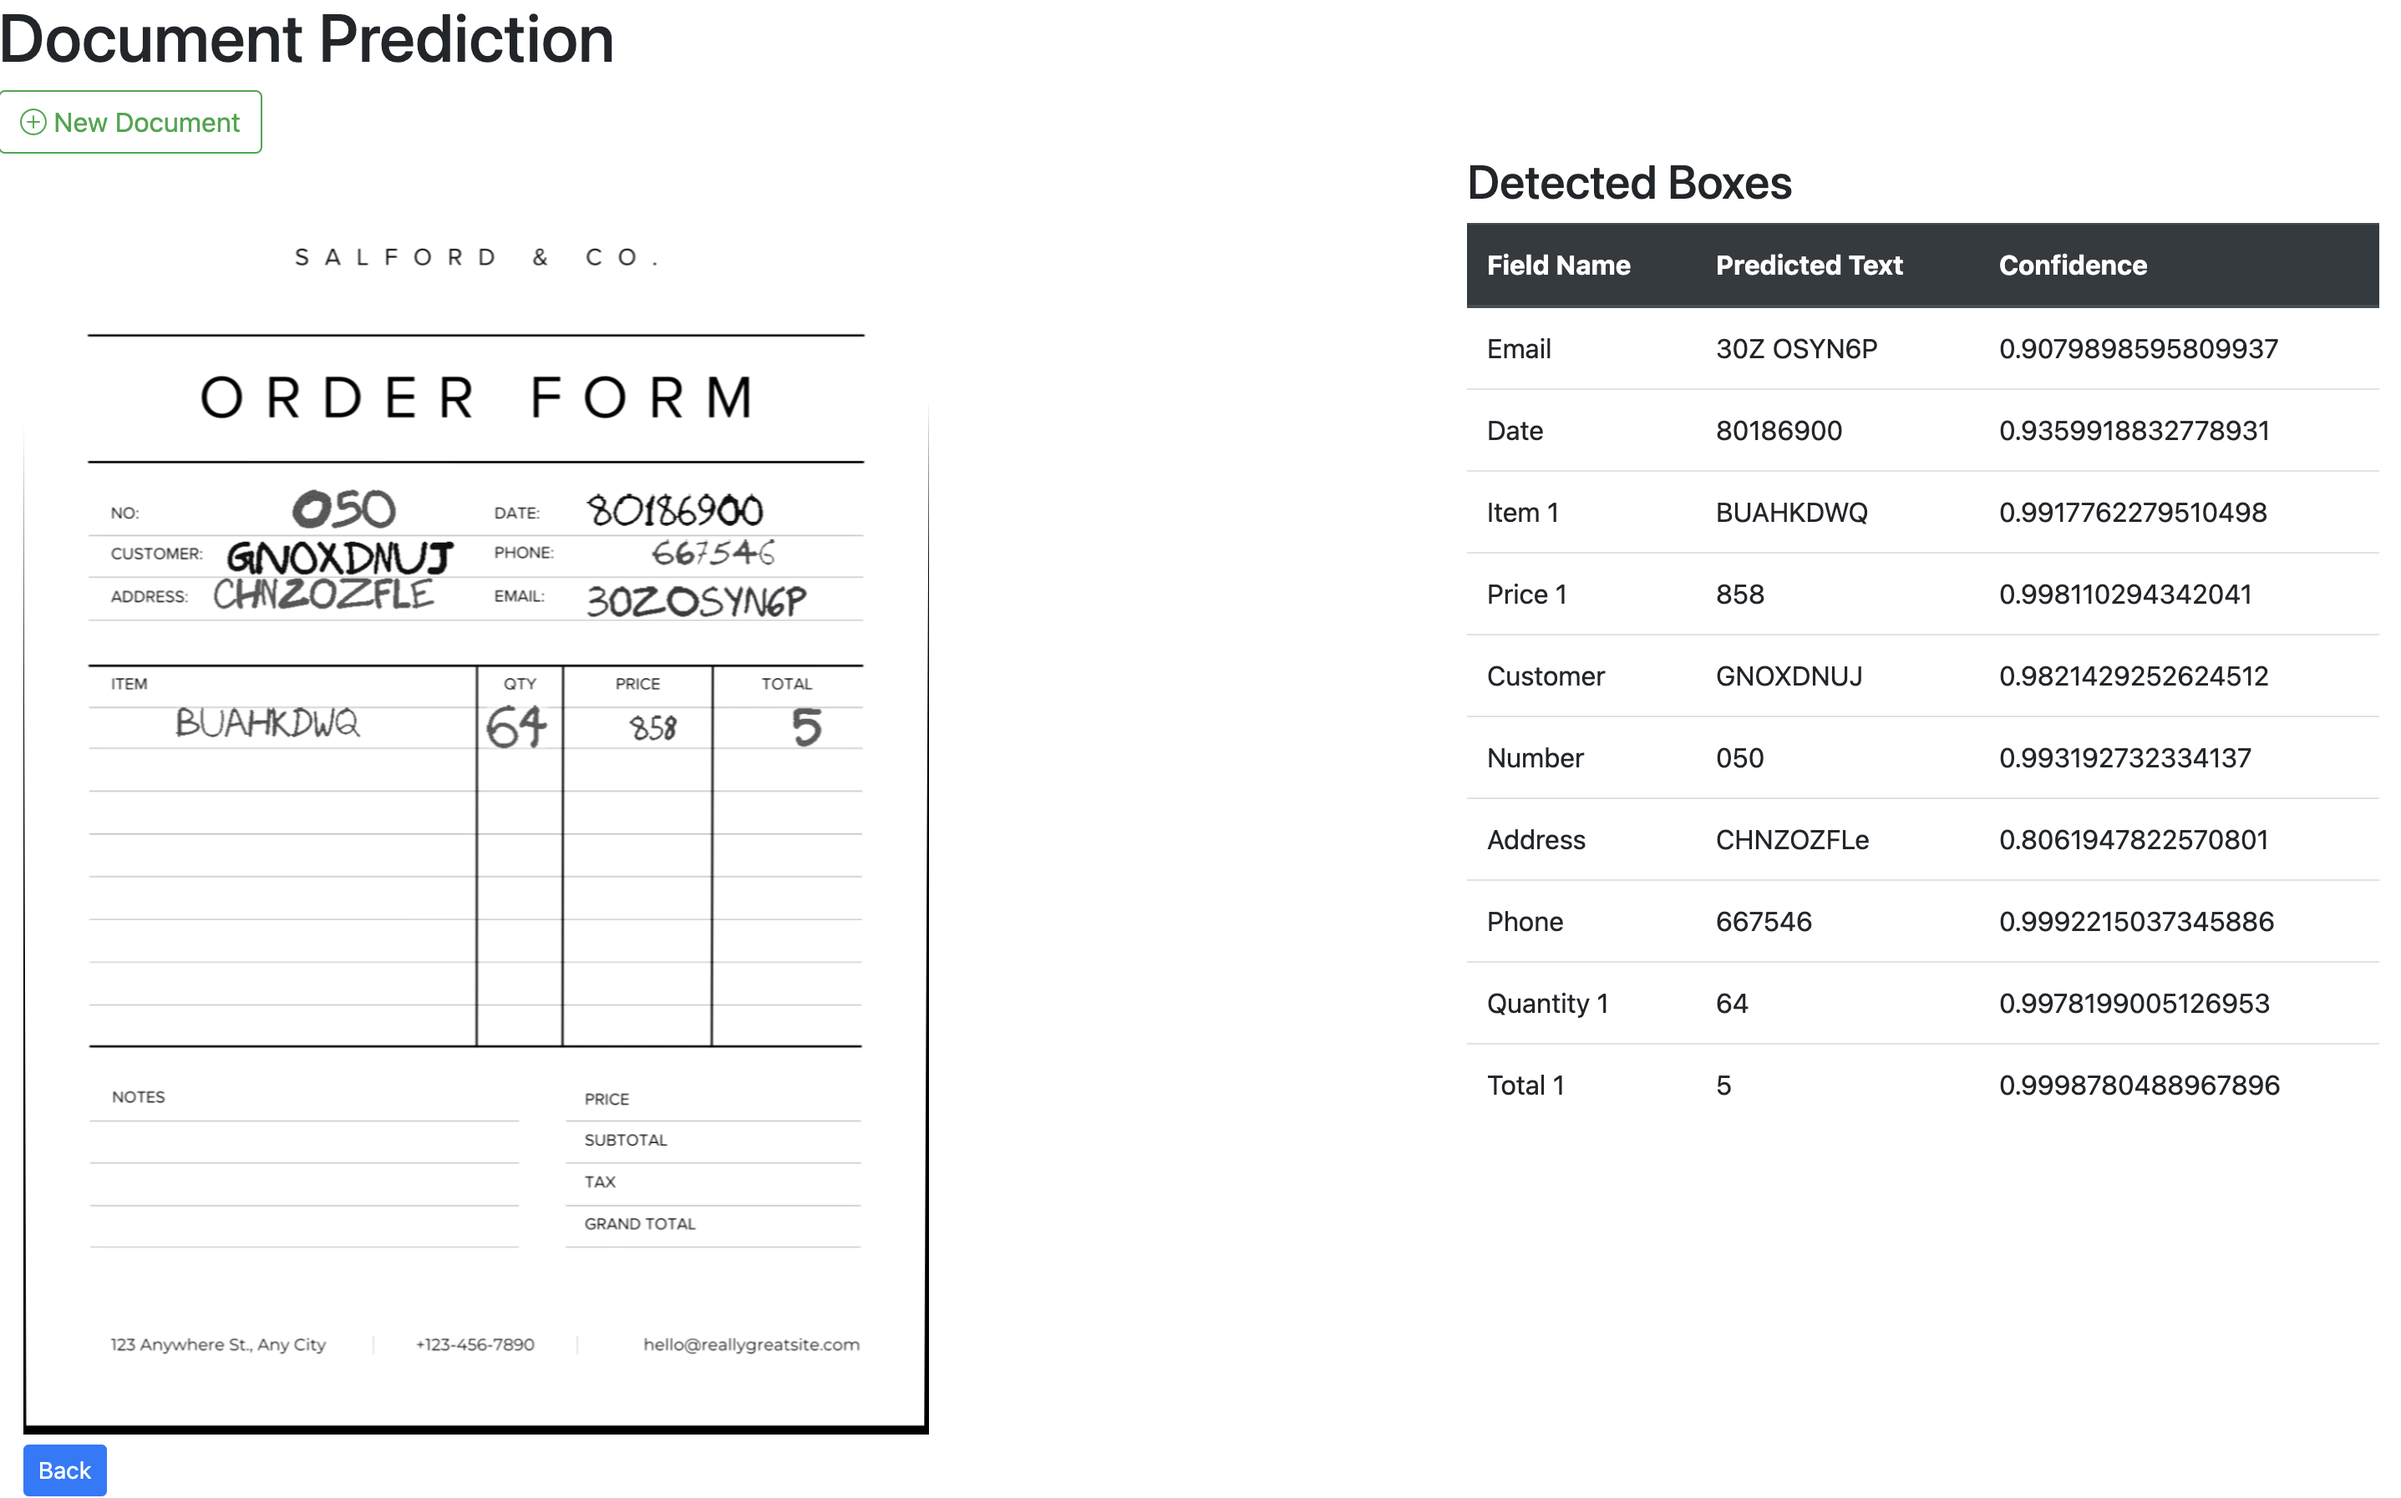
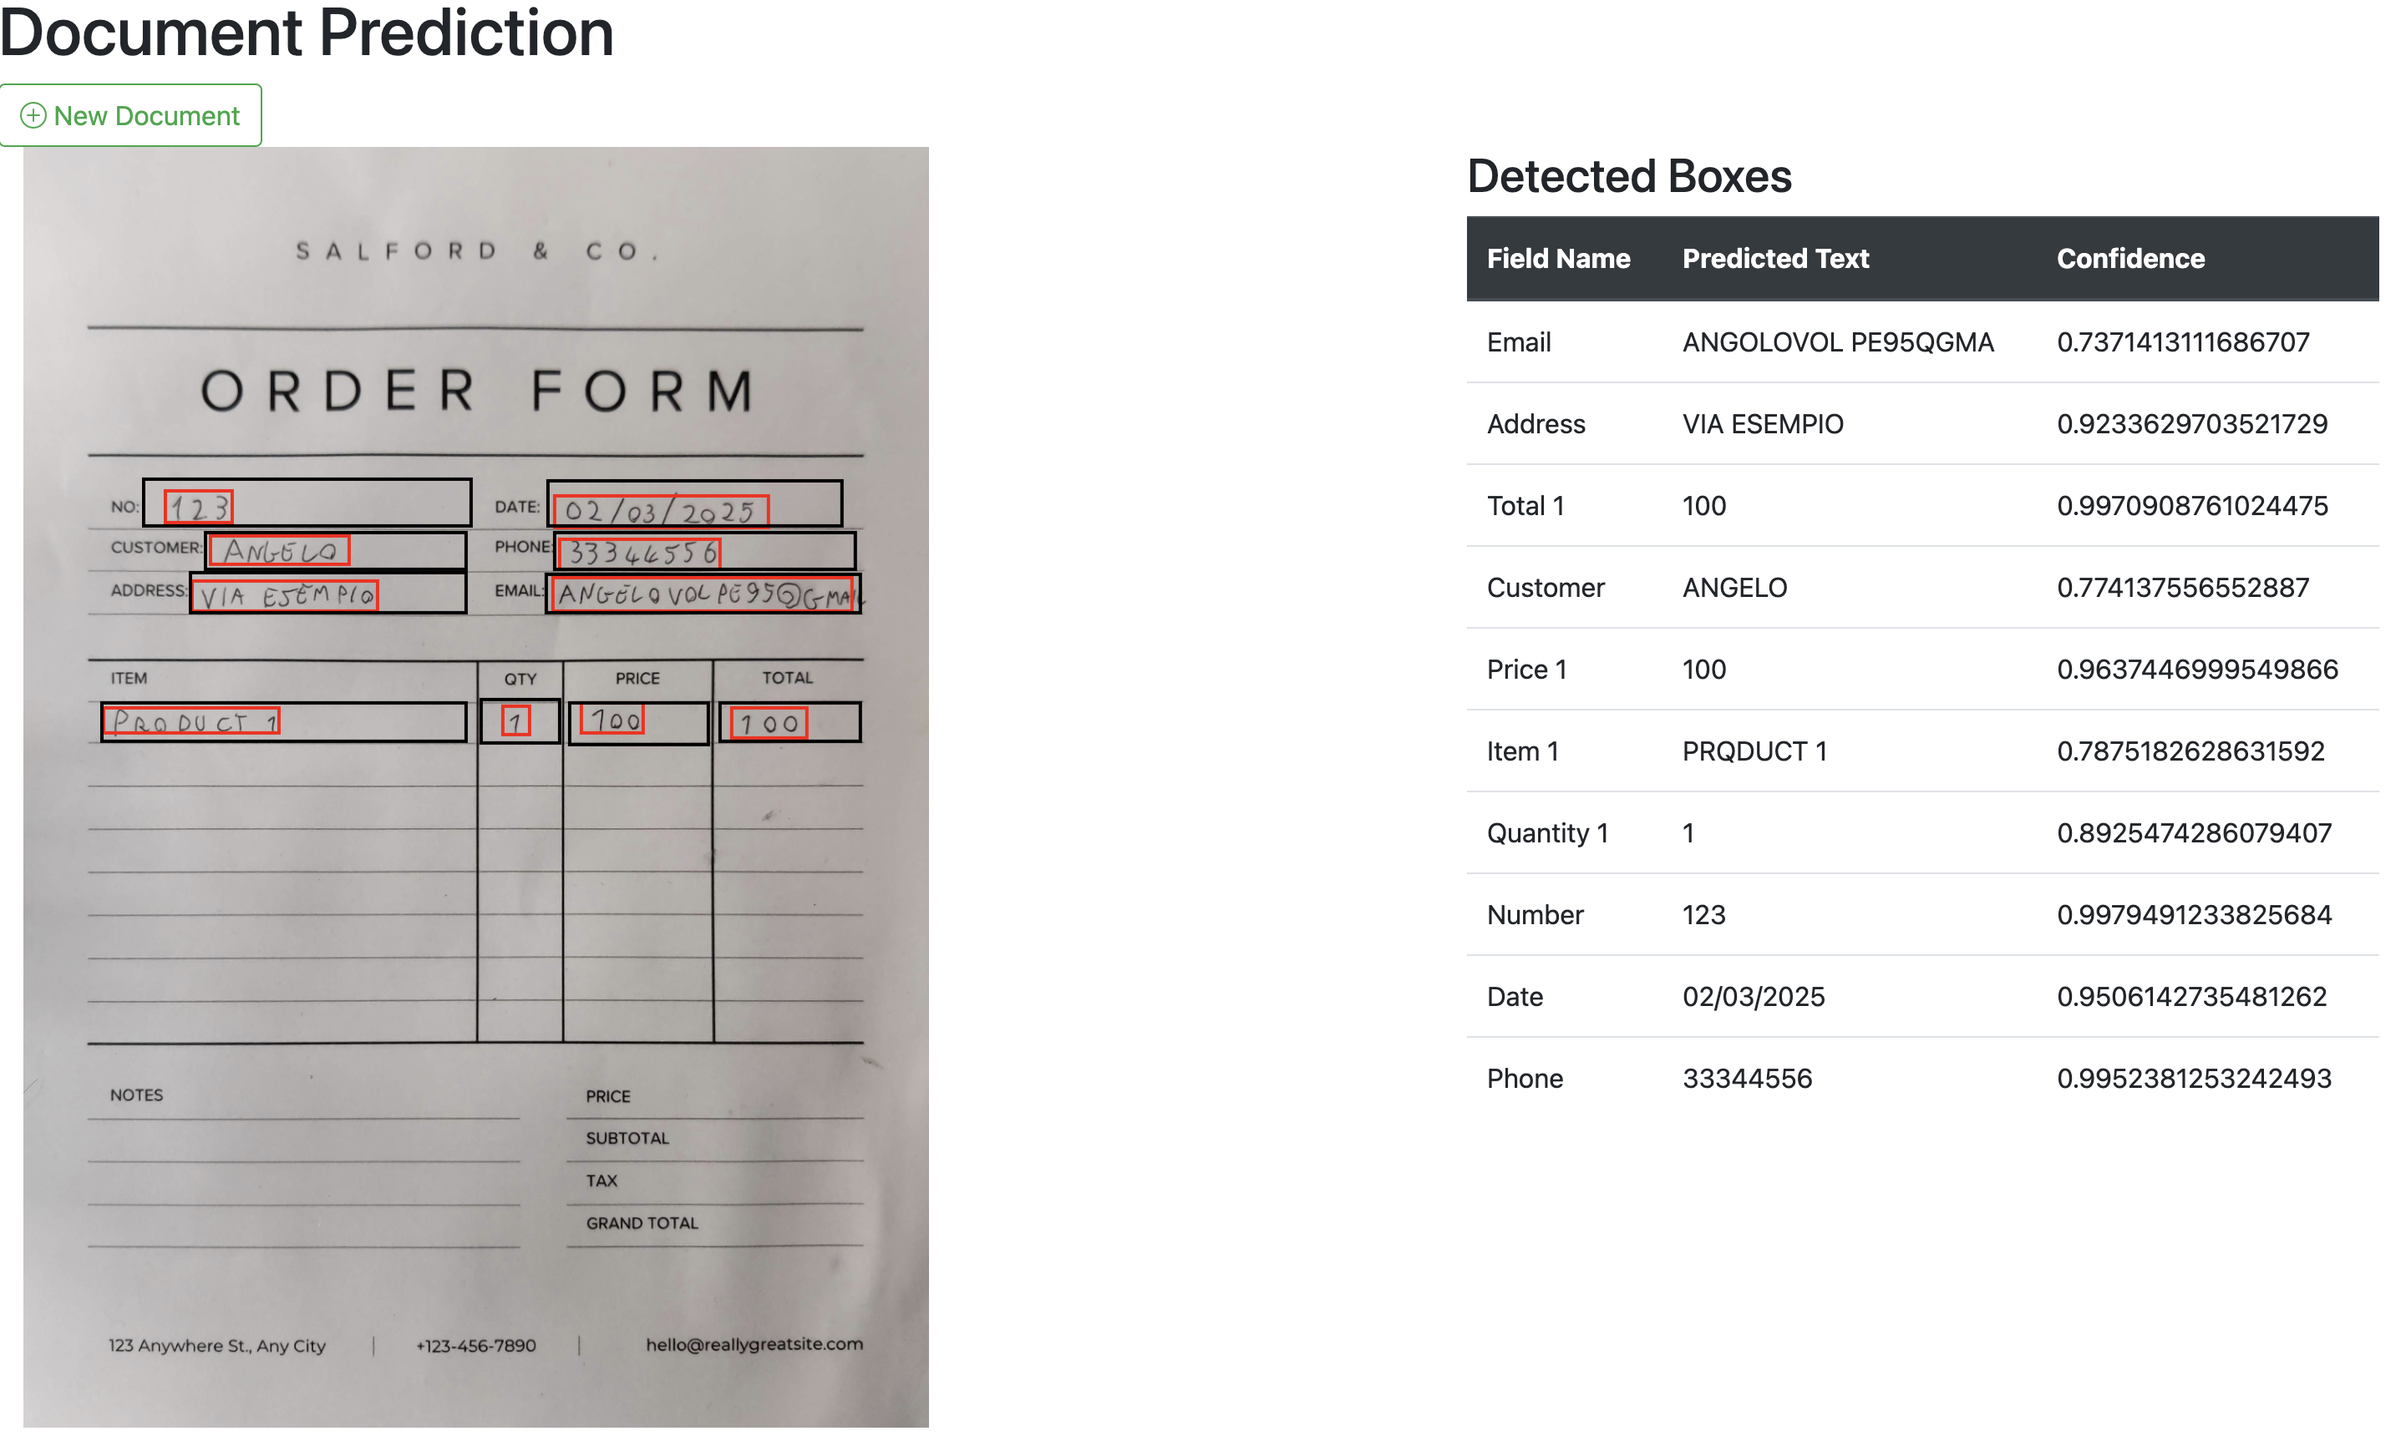
update documentation on samples

diff --git a/docs/source/usage.rst b/docs/source/usage.rst
@@ -35,11 +35,38 @@ This page allows you to do various operations on the document:
    :align: center
    :width: 600px
 
+Document Samples Page
+----------------------------
+This page allows you to access the generated samples and view them one by one.
+Here are some examples of the generated samples:
+
+|sample_1| |sample_2| |sample_3|
+
+.. |sample_1| image:: _static/sample_1.png
+   :alt: Sample
+   :width: 30%
+
+.. |sample_2| image:: _static/sample_2.png
+   :alt: Sample
+   :width: 30%
+
+.. |sample_3| image:: _static/sample_3.png
+   :alt: Sample
+   :width: 30%
 
 Document Prediction Page
 ------------------------------
 
 This page allows you to upload a document image and run the fine tuned OCR to predict the content and automatically associate it to the boxes.
+
+Example real document:
+
+.. image:: _static/example_form_real_2.jpg
+   :alt: Real document
+   :align: center
+   :width: 400px
+
+Then you can see the document preprocessed with predicted content and the associated boxes.
 
 .. image:: _static/prediction_page.png
    :alt: Document Prediction Page

diff --git a/docs/source/installation.rst b/docs/source/installation.rst
@@ -1,9 +1,11 @@
 Installation and Run
 ====================
 To install and run Document App, you need to have Docker and Docker Compose installed on your machine.
+The project is composed by variuous services, each one with its own Dockerfile and docker-compose.yml file.
+Here you can find the instructions to run each service.
 
-Frontend
---------
+Frontend + Backend
+------------------
 To deploy the forntend clone the `document-generator-webapp <https://github.com/angelo-volpe/document-generator-webapp>`_ and run the following commands inside the project:
 
 .. code-block:: bash
